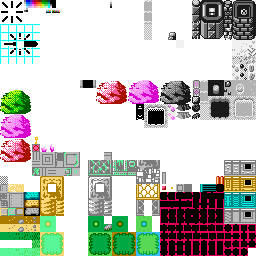
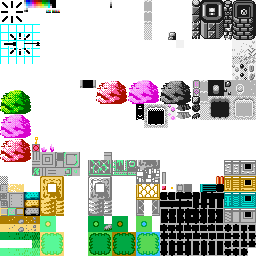
moved palettes swapping to include menu

Changed region(s): [[0.625, 0.75, 1.0, 1.0], [0.0938, 0.1562, 0.1562, 0.1875]]

diff --git a/index.html b/index.html
@@ -2283,38 +2283,6 @@
                 }
             }
                 
-            img = ctx.getImageData(0,0,160,144);
-            for(var i = 0, l = img.data.length; i < l; i += 4) {
-                if (img.data[i+3] > 0) {
-                    if (img.data[i] == pal_0[0][0] && img.data[i+1] == pal_0[0][1] && img.data[i+2] == pal_0[0][2]) {
-                    
-                        img.data[i] = currPal[0][0];
-                        img.data[i+1] = currPal[0][1];
-                        img.data[i+2] = currPal[0][2];
-                    }
-                    if (img.data[i] == pal_0[1][0] && img.data[i+1] == pal_0[1][1] && img.data[i+2] == pal_0[1][2]) {
-                    
-                        img.data[i] = currPal[1][0];
-                        img.data[i+1] = currPal[1][1];
-                        img.data[i+2] = currPal[1][2];
-                    }
-                    if (img.data[i] == pal_0[2][0] && img.data[i+1] == pal_0[2][1] && img.data[i+2] == pal_0[2][2]) {
-                    
-                        img.data[i] = currPal[2][0];
-                        img.data[i+1] = currPal[2][1];
-                        img.data[i+2] = currPal[2][2];
-                    }
-                    if (img.data[i] == pal_0[3][0] && img.data[i+1] == pal_0[3][1] && img.data[i+2] == pal_0[3][2]) {
-                    
-                        img.data[i] = currPal[3][0];
-                        img.data[i+1] = currPal[3][1];
-                        img.data[i+2] = currPal[3][2];
-                    }
-                } 
-            } 
-            ctx.putImageData(img, 0, 0);
-            
-            
         } else {
 			//render game over screen
             if (player.health <=0) {
@@ -2335,6 +2303,37 @@
         }
 		//update/render menu
         menuSystem();
+        //apply pallette swap
+        img = ctx.getImageData(0,0,160,144);
+        for(var i = 0, l = img.data.length; i < l; i += 4) {
+            if (img.data[i+3] > 0) {
+                if (img.data[i] == pal_0[0][0] && img.data[i+1] == pal_0[0][1] && img.data[i+2] == pal_0[0][2]) {
+                
+                    img.data[i] = currPal[0][0];
+                    img.data[i+1] = currPal[0][1];
+                    img.data[i+2] = currPal[0][2];
+                }
+                if (img.data[i] == pal_0[1][0] && img.data[i+1] == pal_0[1][1] && img.data[i+2] == pal_0[1][2]) {
+                
+                    img.data[i] = currPal[1][0];
+                    img.data[i+1] = currPal[1][1];
+                    img.data[i+2] = currPal[1][2];
+                }
+                if (img.data[i] == pal_0[2][0] && img.data[i+1] == pal_0[2][1] && img.data[i+2] == pal_0[2][2]) {
+                
+                    img.data[i] = currPal[2][0];
+                    img.data[i+1] = currPal[2][1];
+                    img.data[i+2] = currPal[2][2];
+                }
+                if (img.data[i] == pal_0[3][0] && img.data[i+1] == pal_0[3][1] && img.data[i+2] == pal_0[3][2]) {
+                
+                    img.data[i] = currPal[3][0];
+                    img.data[i+1] = currPal[3][1];
+                    img.data[i+2] = currPal[3][2];
+                }
+            } 
+        } 
+        ctx.putImageData(img, 0, 0);
         rendScreen = ctx.getImageData(0,0,screenWidth,screenHeight);
         rctx.putImageData(rendScreen,0,0);
         rctx.scale(scaleFactor,scaleFactor);
